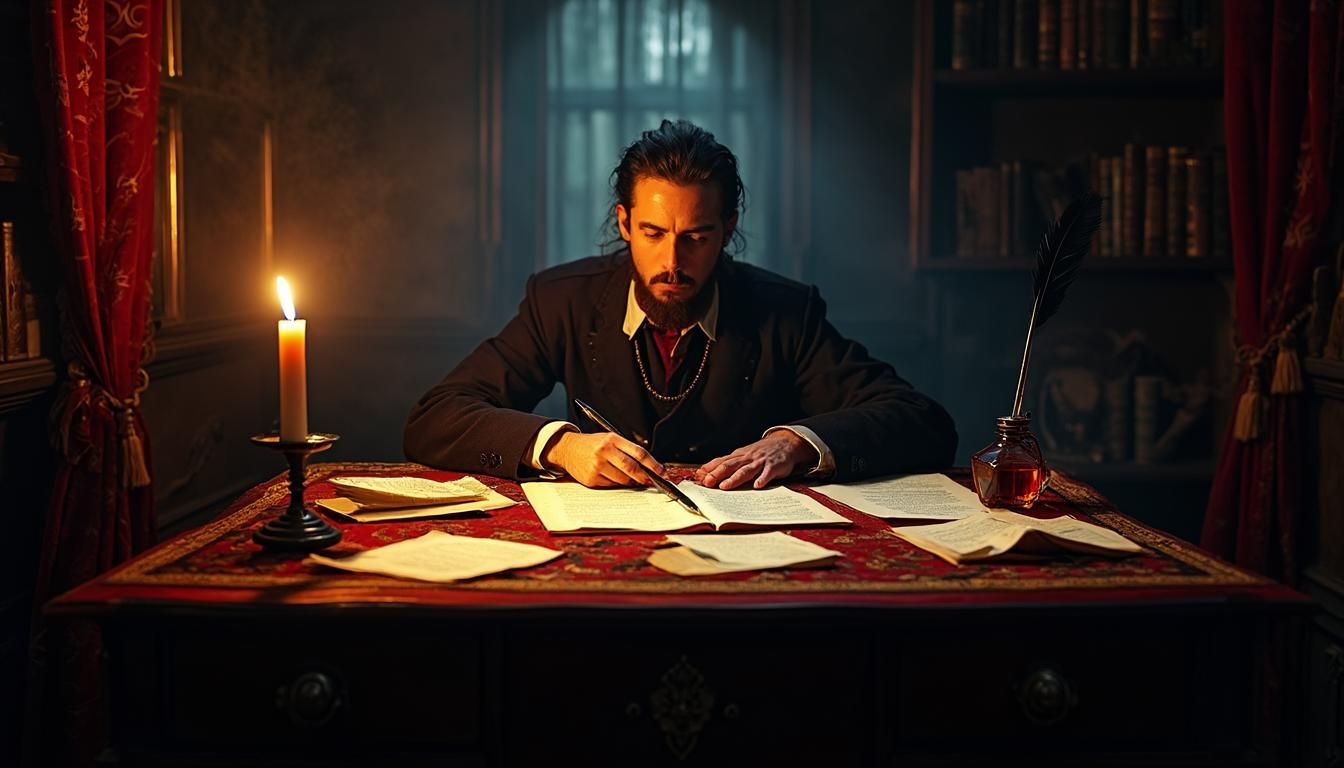
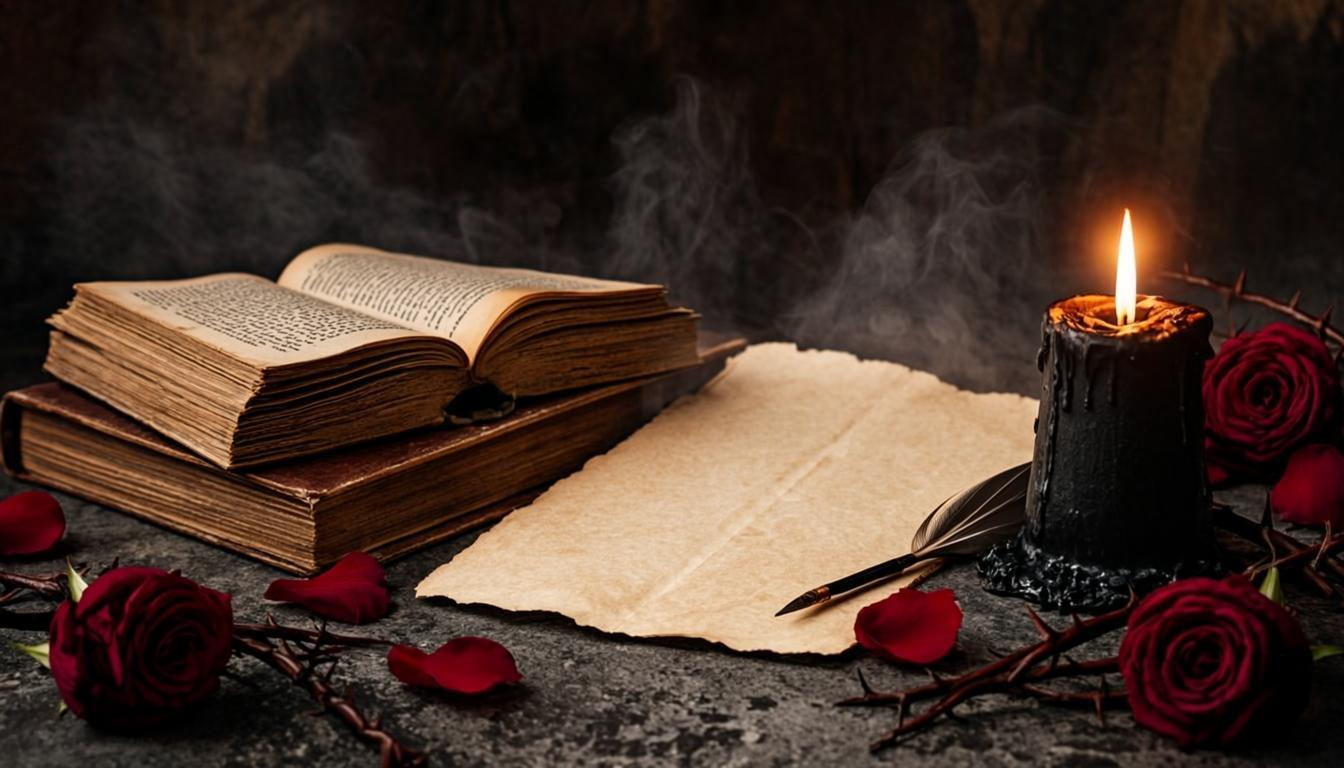
fix: about page - show full KARTIX VALE name, replace person background with abstract dark atmospheric image, improve GlitchText component flexibility

diff --git a/src/app/about/page.tsx b/src/app/about/page.tsx
@@ -91,12 +91,13 @@ export default function AboutPage() {
             </motion.p>
 
             {/* GlitchText name - subtle glitch on hover only */}
-            <motion.div variants={fadeInUp}>
+            <motion.div variants={fadeInUp} className="w-full overflow-visible">
               <GlitchText
                 speed={0.5}
                 enableShadows
                 enableOnHover
-                className="logo-text text-5xl sm:text-6xl md:text-7xl lg:text-8xl uppercase"
+                className="text-3xl sm:text-4xl md:text-5xl lg:text-7xl uppercase"
+                style={{ letterSpacing: '0.15em', background: 'linear-gradient(135deg, #C9A84C 0%, #D4AF37 40%, #B8860B 60%, #C9A84C 100%)', WebkitBackgroundClip: 'text', WebkitTextFillColor: 'transparent', backgroundClip: 'text', filter: 'drop-shadow(0 0 12px rgba(201, 168, 76, 0.3))' }}
               >
                 Kartix Vale
               </GlitchText>
@@ -151,13 +152,13 @@ export default function AboutPage() {
             >
               {/* Mysterious emblem */}
               <div className="flex-shrink-0">
-                <div className="w-40 h-40 md:w-52 md:h-52 rounded-full bg-gradient-to-br from-midnight via-blood/20 to-midnight flex items-center justify-center border border-gold/20 relative overflow-hidden shadow-[0_0_50px_rgba(139,0,0,0.25)]">
+                <div className="w-48 h-48 md:w-60 md:h-60 rounded-full bg-gradient-to-br from-midnight via-blood/20 to-midnight flex items-center justify-center border border-gold/20 relative overflow-hidden shadow-[0_0_50px_rgba(139,0,0,0.25)]">
                   <div className="absolute inset-0 bg-gradient-to-t from-black/40 via-transparent to-transparent" />
                   <div className="absolute inset-0 flex items-center justify-center">
-                    <Skull className="h-16 w-16 md:h-20 md:w-20 text-gold/30" />
+                    <Skull className="h-10 w-10 md:h-12 md:w-12 text-gold/20" />
                   </div>
-                  <span className="relative logo-text text-2xl md:text-3xl uppercase">
-                    KV
+                  <span className="relative logo-text text-lg md:text-2xl uppercase text-center leading-tight">
+                    Kartix<br/>Vale
                   </span>
                 </div>
               </div>

diff --git a/src/components/reactbits/GlitchText.tsx b/src/components/reactbits/GlitchText.tsx
@@ -7,6 +7,7 @@ interface GlitchTextProps {
   enableShadows?: boolean;
   enableOnHover?: boolean;
   className?: string;
+  style?: CSSProperties;
 }
 
 interface CustomCSSProperties extends CSSProperties {
@@ -21,13 +22,15 @@ const GlitchText: FC<GlitchTextProps> = ({
   speed = 0.5,
   enableShadows = true,
   enableOnHover = false,
-  className = ''
+  className = '',
+  style
 }) => {
   const inlineStyles: CustomCSSProperties = {
     '--after-duration': `${speed * 3}s`,
     '--before-duration': `${speed * 2}s`,
     '--after-shadow': enableShadows ? '-5px 0 red' : 'none',
-    '--before-shadow': enableShadows ? '5px 0 cyan' : 'none'
+    '--before-shadow': enableShadows ? '5px 0 cyan' : 'none',
+    ...style
   };
 
   const hoverClass = enableOnHover ? 'enable-on-hover' : '';

diff --git a/src/components/reactbits/GlitchText.css b/src/components/reactbits/GlitchText.css
@@ -1,12 +1,11 @@
 .glitch {
   color: #fff;
-  font-size: clamp(2rem, 10vw, 8rem);
-  white-space: nowrap;
   font-weight: 900;
   position: relative;
   margin: 0 auto;
   user-select: none;
   cursor: pointer;
+  display: inline-block;
 }
 
 .glitch::after,
@@ -14,10 +13,13 @@
   content: attr(data-text);
   position: absolute;
   top: 0;
+  left: 0;
   color: #fff;
-  background-color: #120F17;
   overflow: hidden;
   clip-path: inset(0 0 0 0);
+  white-space: inherit;
+  width: 100%;
+  height: 100%;
 }
 
 .glitch:not(.enable-on-hover)::after {
